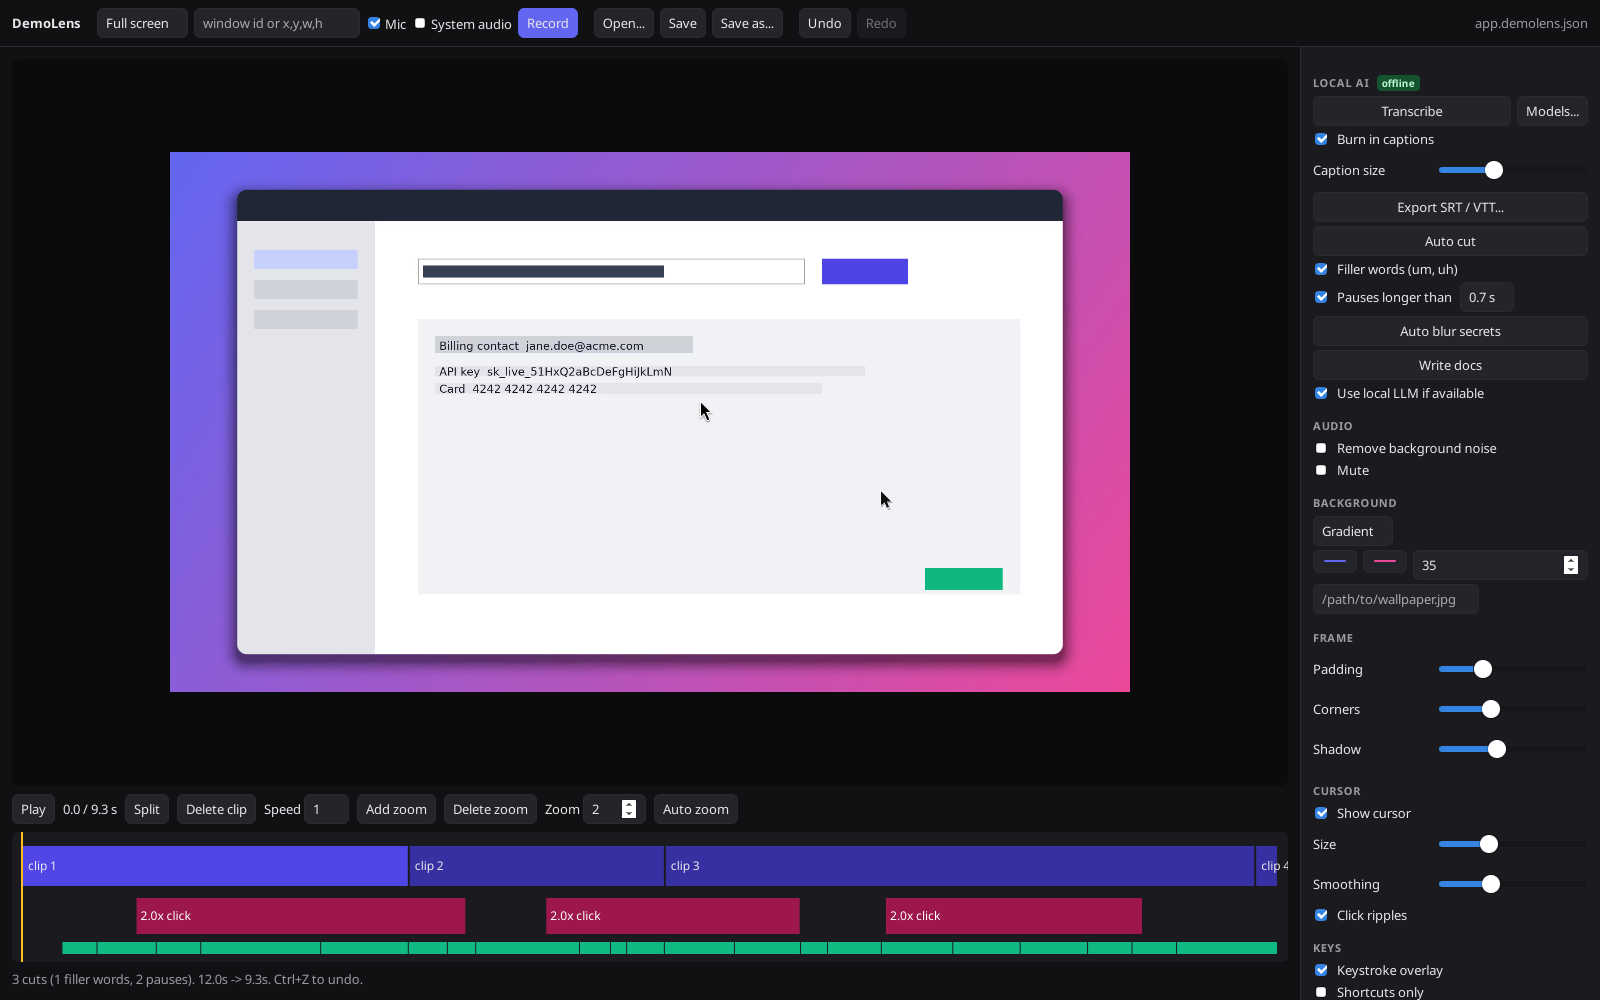
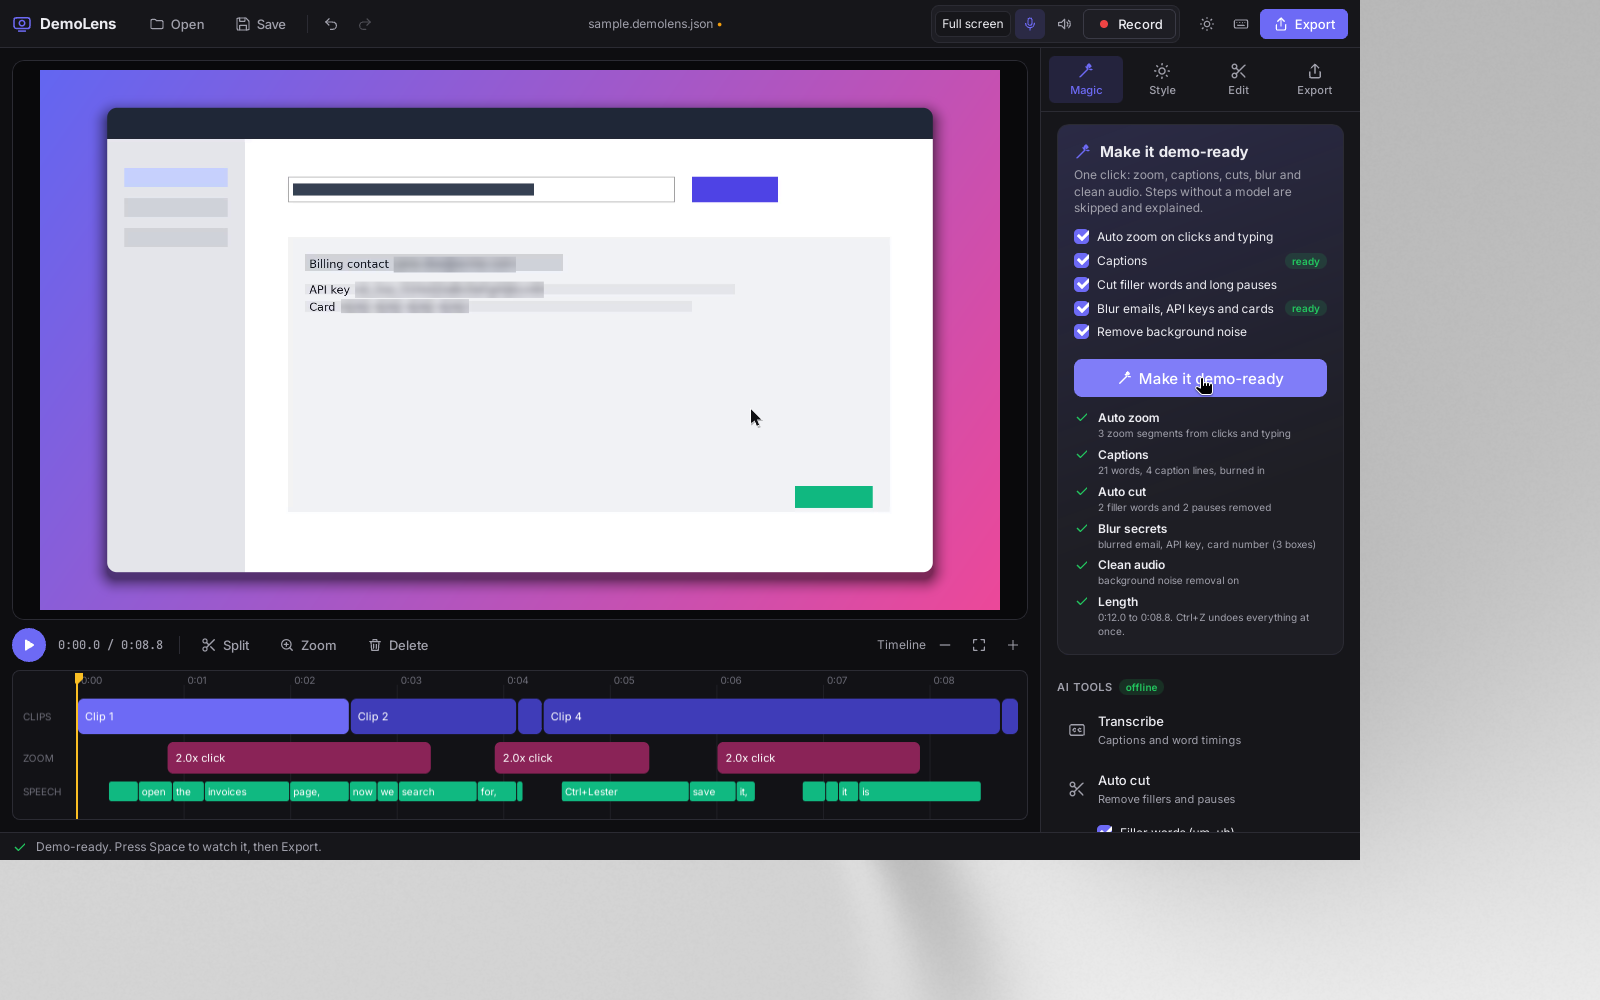
README: quick start, Why DemoLens, new screenshots; review: what was built and what is left

diff --git a/README.md b/README.md
@@ -6,7 +6,29 @@ You record your screen, DemoLens logs your cursor, clicks and key presses next t
 
 ![Demo GIF rendered by DemoLens from the built in sample](docs/media/demo.gif)
 
-![The editor with the Local AI panel](docs/media/editor-ai.png)
+![The editor after one click on Make it demo-ready](docs/media/editor-ai.png)
+
+## Quick start
+
+1. Download the installer for your OS from [Releases](https://github.com/im45145v/DemoLens/releases) (`.msi` or `.exe` on Windows, `.dmg` on macOS, `.deb` or `.AppImage` on Linux) and install [ffmpeg](https://ffmpeg.org/download.html).
+2. Open DemoLens and click **Try the sample**, or **Record screen**.
+3. Click **Make it demo-ready**. It adds zooms, captions, cuts filler words and pauses, blurs secrets and cleans the audio. Each step says what it did, and Ctrl+Z undoes all of it.
+4. Pick a template in **Style**, then a destination in **Export** (YouTube, X, Reels, a README GIF).
+
+Press `?` in the app for all keyboard shortcuts.
+
+## Why DemoLens
+
+| | DemoLens | Screen Studio | Cap | Loom / Tella |
+|---|---|---|---|---|
+| Price | Free, MIT | Paid | Free core, paid cloud | Subscription |
+| Windows, macOS, Linux | All three | macOS only | macOS, Windows | Browser and desktop |
+| AI captions and cuts | Offline, on your machine | No | Cloud | Cloud |
+| Auto blur of API keys, emails, cards | Yes | No | No | No |
+| Scriptable CLI | Yes | No | No | No |
+
+If you record demos of developer tools, your screen is full of tokens, emails and customer data. DemoLens finds and blurs them for you and never uploads a frame.
+
 
 ## Features
 
@@ -18,8 +40,9 @@ You record your screen, DemoLens logs your cursor, clicks and key presses next t
 - **Styling**: gradient, solid or image background, padding, rounded corners and a soft shadow.
 - **Editing**: trim, split, delete pieces and set per clip speed (0.25x to 16x, audio follows).
 - **Blur boxes**: hide private data with manual blur regions that move correctly with the zoom.
-- **Product presets**: save a brand style per product (background, frame, cursor, keys) and reapply it to any recording.
-- **Editor comforts**: undo and redo (Ctrl+Z, Ctrl+Shift+Z), native Open / Save / Export dialogs, Ctrl+S and Ctrl+O. Opening a video also loads the event log next to it.
+- **Templates and presets**: start from built in looks (Sunset, Midnight, Ocean, Clean light, Minimal, Social card) or save a brand style per product (background, frame, cursor, keys) and reapply it to any recording.
+- **Make it demo-ready**: one button (or `D`, or `demolens ready`) runs zoom, captions, cuts, blur and noise removal and reports each step.
+- **Editor comforts**: dark and light themes, undo and redo, a timeline you can zoom and scrub, draggable zoom segments, keyboard shortcuts for everything (press `?`). Opening a video also loads the event log next to it.
 - **Local AI** (optional, offline, see below): captions, auto cut of filler words and long pauses, auto blur of emails, API keys and card numbers, and written docs (title, chapters, step by step guide, social post).
 - **Audio cleanup**: background noise removal and mute.
 - **Export**: MP4 (H.264 + AAC) or GIF (palette optimised), 720p to 4K, in 16:9, 9:16 or 1:1.
@@ -191,6 +214,7 @@ demolens autocut demo.json --pause 0.7
 demolens redact demo.json
 demolens docs demo.json -o docs/                 # --no-llm for the rule based writer
 demolens audio demo.json --denoise
+demolens ready demo.json                         # all of the above in one go
 demolens sample samples --speech                 # sample with espeak-ng narration and fake secrets
 ```
 
@@ -198,8 +222,10 @@ Run the tests with `cargo test -p demolens-core -p demolens-ai`.
 
 ## Roadmap
 
-Done: local captions, auto cut, auto blur of sensitive text, noise cleanup, local docs writer, undo and redo, native file dialogs.
+Done: one click demo-ready, templates, new editor layout and timeline, shortcuts, installers for all OSes, local captions, auto cut, auto blur of sensitive text, noise cleanup, local docs writer, undo and redo, native file dialogs.
 
+- Draw blur boxes on the preview, and a visual window and area picker.
+- Bundled ffmpeg and signed builds.
 - Wayland capture through the PipeWire portal (Wayland is not supported yet; use an X11 session).
 - Webcam overlay (corner bubble, shape and size per preset).
 - Local AI voiceover with Piper, to replace or fix narration.

diff --git a/docs/REVIEW.md b/docs/REVIEW.md
@@ -132,4 +132,11 @@ The engine is good and the AI is a real differentiator, but the app did not look
 
 ## What was built from this review
 
-See the README and `docs/media/before-after/`. Items 1 to 9 of the backlog were built in this round. Items 10 to 15 remain open.
+Built and checked in the app on a virtual X display (screenshots in `docs/media/before-after/`):
+
+- Items 1, 2, 3, 5, 6, 7, 8 and 9: welcome screen with Try the sample, one click Make it demo-ready with a per step report and one undo, recording that falls back to video only when the mic fails, six built in templates, export destinations with progress and Show in folder, the new toolbar / preview / timeline / inspector layout with dark and light themes, the new timeline (ruler, labelled lanes, scrubbing, timeline zoom, move and resize zooms) and keyboard shortcuts with a cheat sheet on `?`.
+- Item 4: `.github/workflows/release.yml` builds installers on Linux, macOS and Windows. A tag `v*` publishes them as a draft release.
+
+Critical bug found while testing: in the old `ui/main.js` every Local AI button handler was nested by mistake inside the preset Save handler, so the AI buttons did nothing until you saved a preset. The rewritten UI fixes it.
+
+Still open: items 10 to 15 (draw blur boxes on the preview, window and area picker, webcam, Wayland, bundled ffmpeg, signed builds). Also: dragging a zoom segment can overlap its neighbour.
